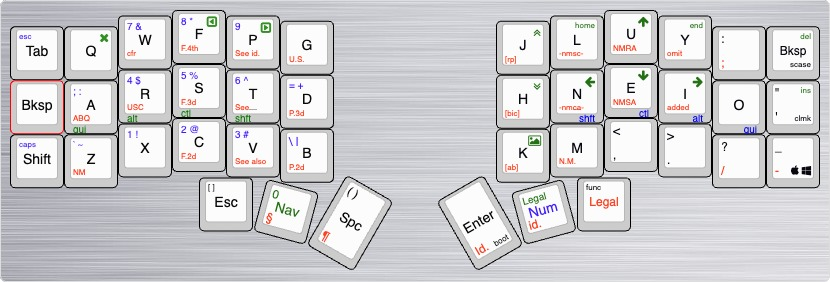
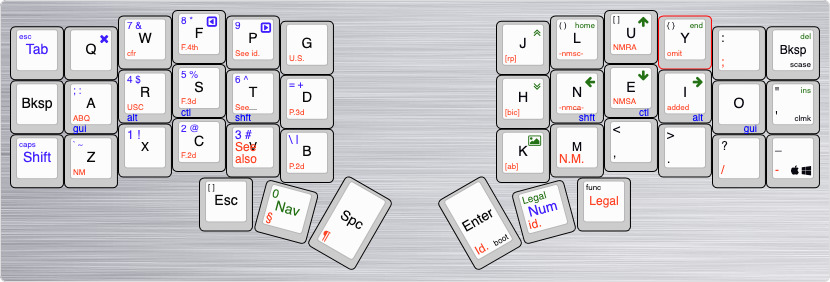
parens and brackets

diff --git a/keymap.c b/keymap.c
@@ -100,7 +100,7 @@ const uint16_t PROGMEM keymaps[][MATRIX_ROWS][MATRIX_COLS] = {
   ),
   [_NAV] = LAYOUT_split_3x6_3(  // nav layer
   //,-----------------------------------------------------.                    ,-----------------------------------------------------.
-      _______, DZ_CLSE, XXXXXXX, DZ_VDLT, DZ_VDRT, XXXXXXX,                      KC_PGUP, KC_HOME,   KC_UP,  KC_END, XXXXXXX,  KC_DEL,
+       KC_ESC, DZ_CLSE, XXXXXXX, DZ_VDLT, DZ_VDRT, XXXXXXX,                      KC_PGUP, KC_HOME,   KC_UP,  KC_END, XXXXXXX,  KC_DEL,
   //|--------+--------+--------+--------+--------+--------|                    |--------+--------+--------+--------+--------+--------|
       _______, DZ_LGUI, DZ_LALT, DZ_LCTL, DZ_LSFT, _______,                      KC_PGDN, KC_LEFT, KC_DOWN,KC_RIGHT, XXXXXXX,  KC_INS,
   //|--------+--------+--------+--------+--------+--------|                    |--------+--------+--------+--------+--------+--------|
@@ -112,13 +112,13 @@ const uint16_t PROGMEM keymaps[][MATRIX_ROWS][MATRIX_COLS] = {
 
   [_NUM] = LAYOUT_split_3x6_3(  // number layer
   //,-----------------------------------------------------.                    ,-----------------------------------------------------.
-       KC_ESC, XXXXXXX,    KC_7,    KC_8,    KC_9, XXXXXXX,                      XXXXXXX, XXXXXXX, XXXXXXX, XXXXXXX, XXXXXXX, _______,
+       KC_ESC, XXXXXXX,    KC_7,    KC_8,    KC_9, XXXXXXX,                      XXXXXXX, DZTDPRN, DZTDBRC, XXXXXXX, XXXXXXX, _______,
   //|--------+--------+--------+--------+--------+--------|                    |--------+--------+--------+--------+--------+--------|
       KC_BSPC, KC_SCLN,    KC_4,    KC_5,    KC_6,  KC_EQL,                      XXXXXXX, DZ_RSFT, DZ_RCTL, DZ_LALT, DZ_RGUI, _______,
   //|--------+--------+--------+--------+--------+--------|                    |--------+--------+--------+--------+--------+--------|
       KC_CAPS,  KC_GRV,    KC_1,    KC_2,    KC_3, KC_BSLS,                      _______, _______, _______, _______, _______, _______, 
   //|--------+--------+--------+--------+--------+--------+--------|  |--------+--------+--------+--------+--------+--------+--------|
-                                          DZTDBRC,    KC_0, DZTDPRN,    _______, _______, _______
+                                          DZTDBRC,    KC_0, _______,    _______, _______, _______
                                       //`--------------------------'  `--------------------------'
   ),
 
